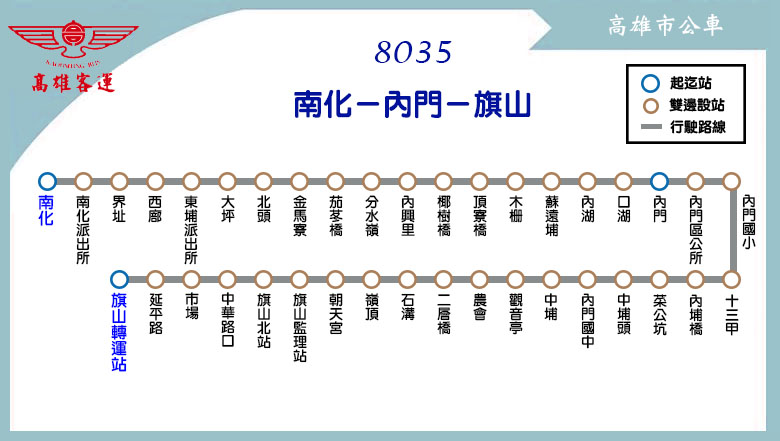
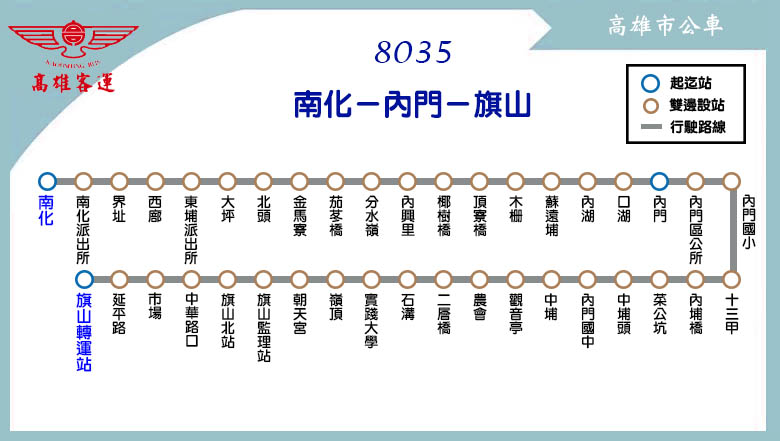
更新路線：8046A(開進樹人醫專)、8035(開進實踐大學)

diff --git a/route/fare_and_time/highway_bus_8035.js b/route/fare_and_time/highway_bus_8035.js
@@ -4,7 +4,7 @@ highway_bus_8035_interval_stop = [
 ["界址","西廍","東埔派出所","大坪","北頭","金馬寮","茄苳橋"], // 金馬寮
 ["分水嶺","內興里","椰樹橋","頂寮橋","木柵","蘇遠埔","內湖"], // 木柵
 ["口湖","內門","內門區公所","內門國小","十三甲","內埔橋"], // 內門
-["菜公坑","中埔頭","內門國中","中埔","觀音亭","農會","二層橋","石溝"], // 中埔
+["菜公坑","中埔頭","內門國中","中埔","觀音亭","農會","二層橋","石溝","實踐大學"], // 中埔
 ["嶺頂","朝天宮","旗山監理站","旗山北站","中華路口","市場","延平站","旗山轉運站"] // 旗山
 ];
 highway_bus_8035_stop_time_consume = [0,20,30,45,60,70];
@@ -19,9 +19,17 @@ highway_bus_8035_fare = [
 // format = [time at the start stop] or
 // [time, other] or
 // [time, start_stop, end_stop, other]
-highway_bus_8035_main_stop_name = ["南化","茄苳橋","內門","中埔頭","旗山北站","旗山轉運站"];
-highway_bus_8035_main_stop_time_consume = [0,10,30,35,40,45];
-highway_bus_8035_important_stop = [0, 2, 5]; // 南化, 內門, 旗山轉運站
-var start_stop = 2, end_stop = 5;
-highway_bus_8035_time_go = [["06:35",start_stop,end_stop,['S']],["06:45",start_stop,end_stop,['S']],["06:20"],["08:20"],["10:50"],["13:20"],["17:35"]];
-highway_bus_8035_time_return = [["06:30",end_stop,start_stop,['S']],["07:35",['S']],["10:05"],["12:35"],["16:50"],["17:30"],["18:45"]];
+highway_bus_8035_main_stop_name = ["南化","茄苳橋","內門","中埔頭","實踐大學","旗山北站","旗山轉運站"];
+highway_bus_8035_main_stop_time_consume = [0,10,30,35,40,50,55];
+highway_bus_8035_important_stop = [0, 2, 4, 6]; // 南化, 內門, 實踐大學, 旗山轉運站
+var start_stop = 2; // 內門
+var end_stop = 6; // 旗山轉運站
+var skip_stop = 4; // 實踐大學
+highway_bus_8035_time_go = [
+["06:35",start_stop,end_stop,['S',skip_stop,[skip_stop,-10]]],["06:45",start_stop,end_stop,['S',skip_stop,[skip_stop,-10]]],
+["06:20",[skip_stop,[skip_stop,-10]]],["08:20"],["10:50"],["13:20"],["17:35"]
+];
+highway_bus_8035_time_return = [
+["06:30",end_stop,start_stop,['S',skip_stop,[skip_stop,-10]]],["07:35",['S',skip_stop,[skip_stop,-10]]],["10:05"],["12:35"],
+["16:50"],["17:30"],["18:45"]
+];

diff --git a/route/fare_and_time/highway_bus_8046A.js b/route/fare_and_time/highway_bus_8046A.js
@@ -7,14 +7,14 @@ highway_bus_8046A_interval_stop = [
 ["楠梓站"],
 ["高鐵左營站"]
 ];
-highway_bus_8046A_stop_time_consume = [0,20,30,45,60,70];
 highway_bus_8046A_fare = [
 ];
 // format = [time at the start stop] or
 // [time, other] or
 // [time, start_stop, end_stop, other]
-highway_bus_8046A_main_stop_name = ["臺南<br />火車站","西門路<br />二段","大林","臺南<br />航空站","奇美<br />博物館","嘉南<br />藥理大學","大湖<br />火車站","路竹","岡山<br />轉運站","捷運<br />青埔站","高鐵<br />左營站"];
-highway_bus_8046A_main_stop_time_consume = [0,6,15,22,25,28,40,45,60,80,90];
-highway_bus_8046A_important_stop = [0, 4, 6, 8, 10]; // 臺南火車站, 奇美博物館, 大湖火車站, 岡山轉運站, 高鐵左營站
-highway_bus_8046A_time_go = [["07:30"],["11:30"],["14:00"],["17:45"]];
-highway_bus_8046A_time_return = [["08:00"],["10:00"],["12:20"],["15:50"]];
+highway_bus_8046A_main_stop_name = ["臺南<br />火車站","西門路<br />二段","大林","臺南<br />航空站","奇美<br />博物館","嘉南<br />藥理大學","樹人<br />醫專","大湖<br />火車站","路竹","岡山<br />轉運站","捷運<br />青埔站","高鐵<br />左營站"];
+highway_bus_8046A_main_stop_time_consume = [0,6,15,22,25,28,35,40,45,60,80,90];
+highway_bus_8046A_important_stop = [0, 4, 7, 9, 11]; // 臺南火車站, 奇美博物館, 大湖火車站, 岡山轉運站, 高鐵左營站
+var skip_stop = 6; // 樹人醫專
+highway_bus_8046A_time_go = [["07:30"],["11:30"],["14:00"],["17:45",[skip_stop]]];
+highway_bus_8046A_time_return = [["08:00"],["10:00"],["12:20"],["15:50",[skip_stop]]];

diff --git a/highway_bus/highway_bus_8035.html b/highway_bus/highway_bus_8035.html
@@ -26,7 +26,7 @@
 	block_route_map(null);
 	block_route_info(route_interval,'高雄客運','','里程計費','http://ibus.tbkc.gov.tw/bus/pda/businfo.aspx?Routeid=8035&GO_OR_BACK=2&Line=All&lang=Cht');
 	block_fare(20, null);
-	block_time_schedule(route_start_stop,route_end_stop,S_message);
+	block_time_schedule(route_start_stop,route_end_stop,S_message+'</h3><h3><font color="red">晨間班次不開進實踐大學</font>');
 	block_transfer(transfer_nanhua_district_office);
 	block_copyright();
 </script>

diff --git a/highway_bus/highway_bus_8046A.html b/highway_bus/highway_bus_8046A.html
@@ -44,7 +44,7 @@
 		</div>\
 	</div>\
 </div>');
-	block_time_schedule(route_start_stop,route_end_stop,'');
+	block_time_schedule(route_start_stop,route_end_stop,'<font color="red">末班車不開進樹人醫專</font>');
 	block_transfer(transfer_tainan_railway_station);
 	block_copyright();
 </script>
